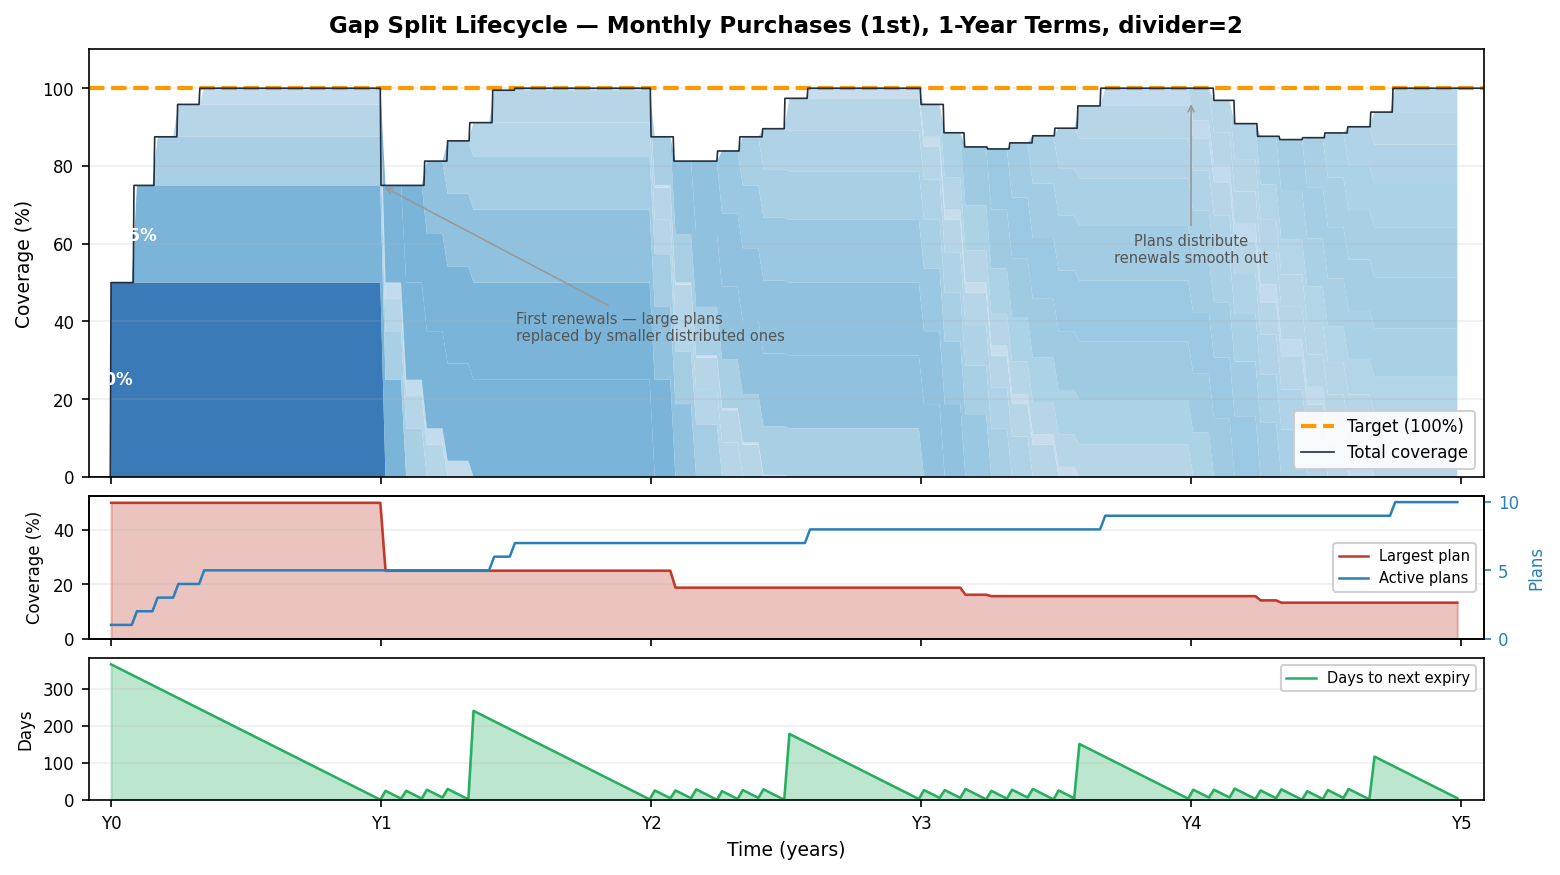
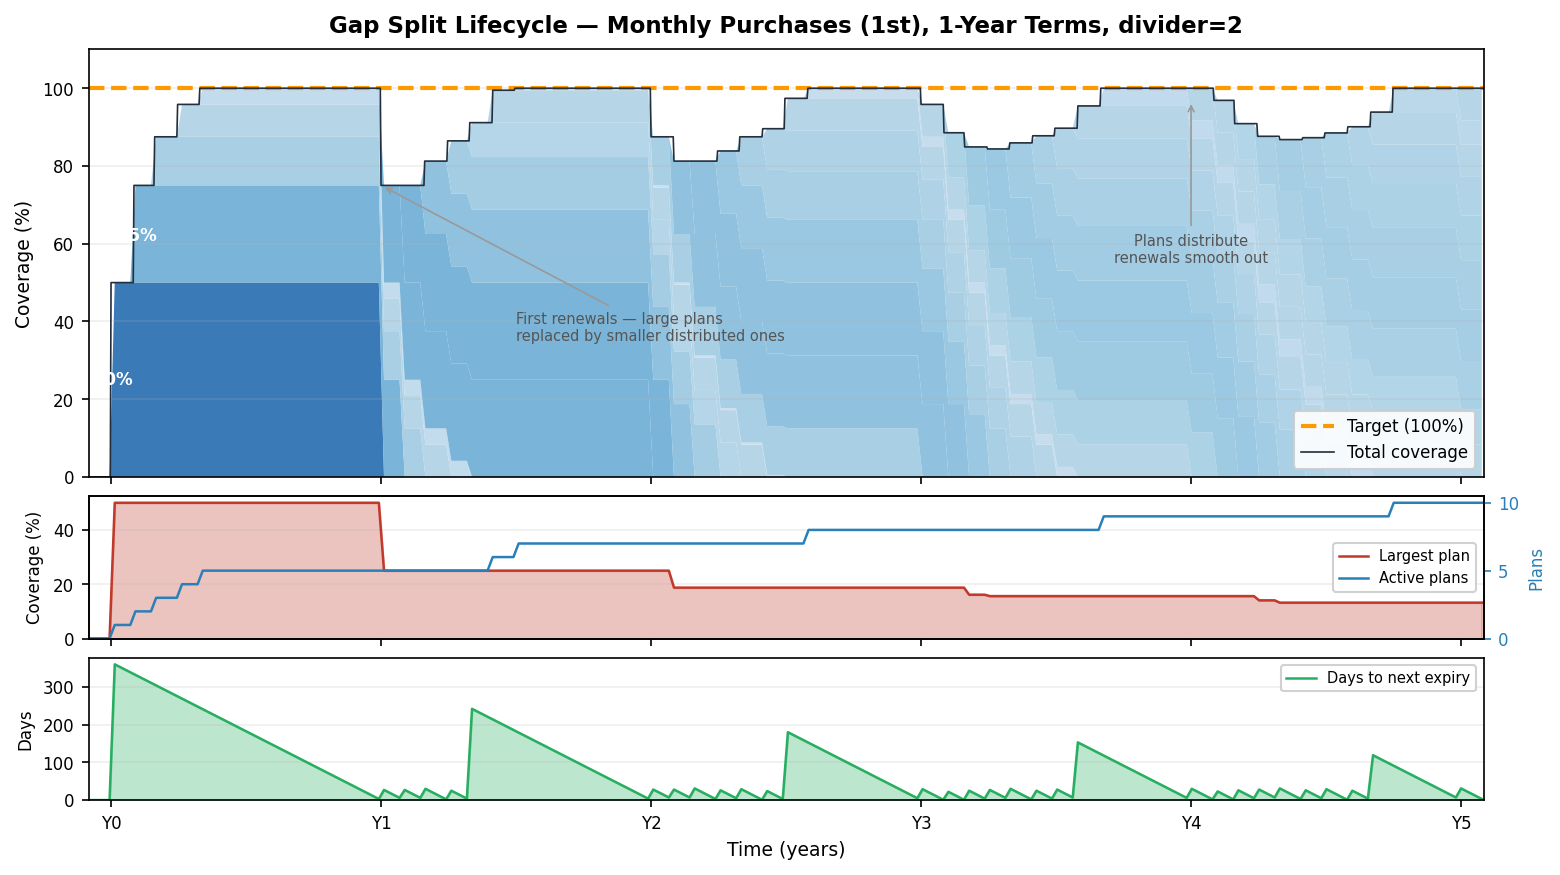
fix: extend sample range for stacked chart to avoid right-side clipping

diff --git a/docs/generate_gap_split_chart.py b/docs/generate_gap_split_chart.py
@@ -111,7 +111,8 @@ def generate_chart(output_path: str = "docs/images/gap-split-lifecycle.png") -> 
 
     # === Top: coverage over time ===
     sample_step = 7
-    sample_days = list(range(0, total_years * DAYS_PER_YEAR + 1, sample_step))
+    padding = 30
+    sample_days = list(range(-padding, total_years * DAYS_PER_YEAR + padding + 1, sample_step))
     sample_years = [d / DAYS_PER_YEAR for d in sample_days]
 
     unique_plans = sorted(
